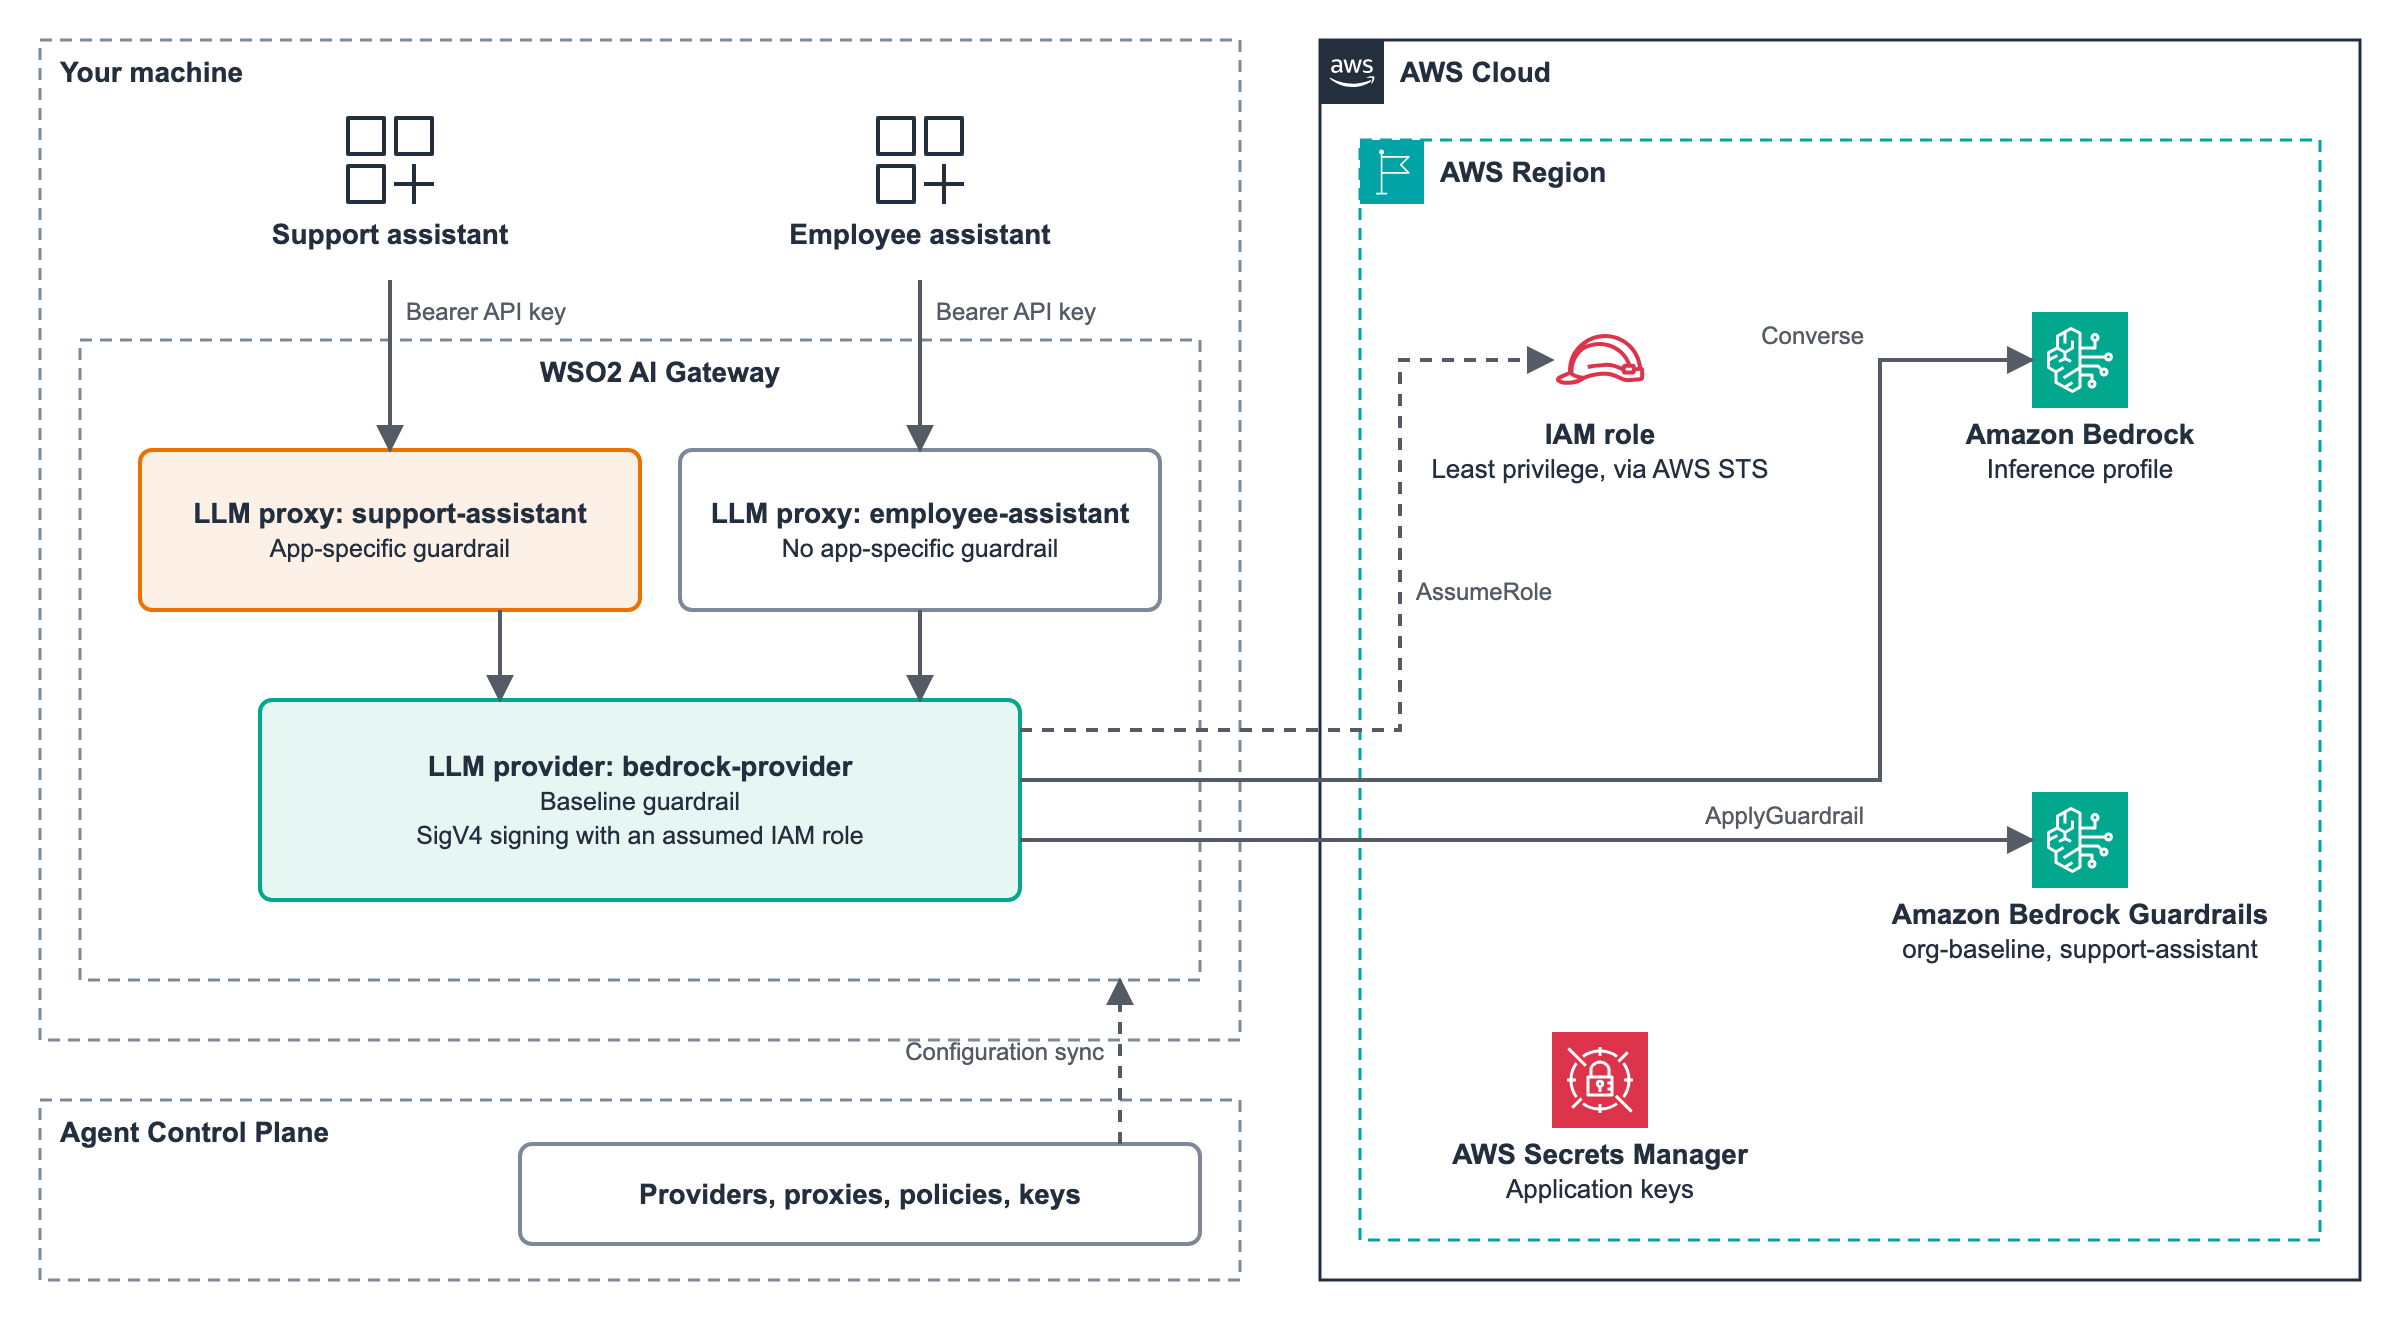
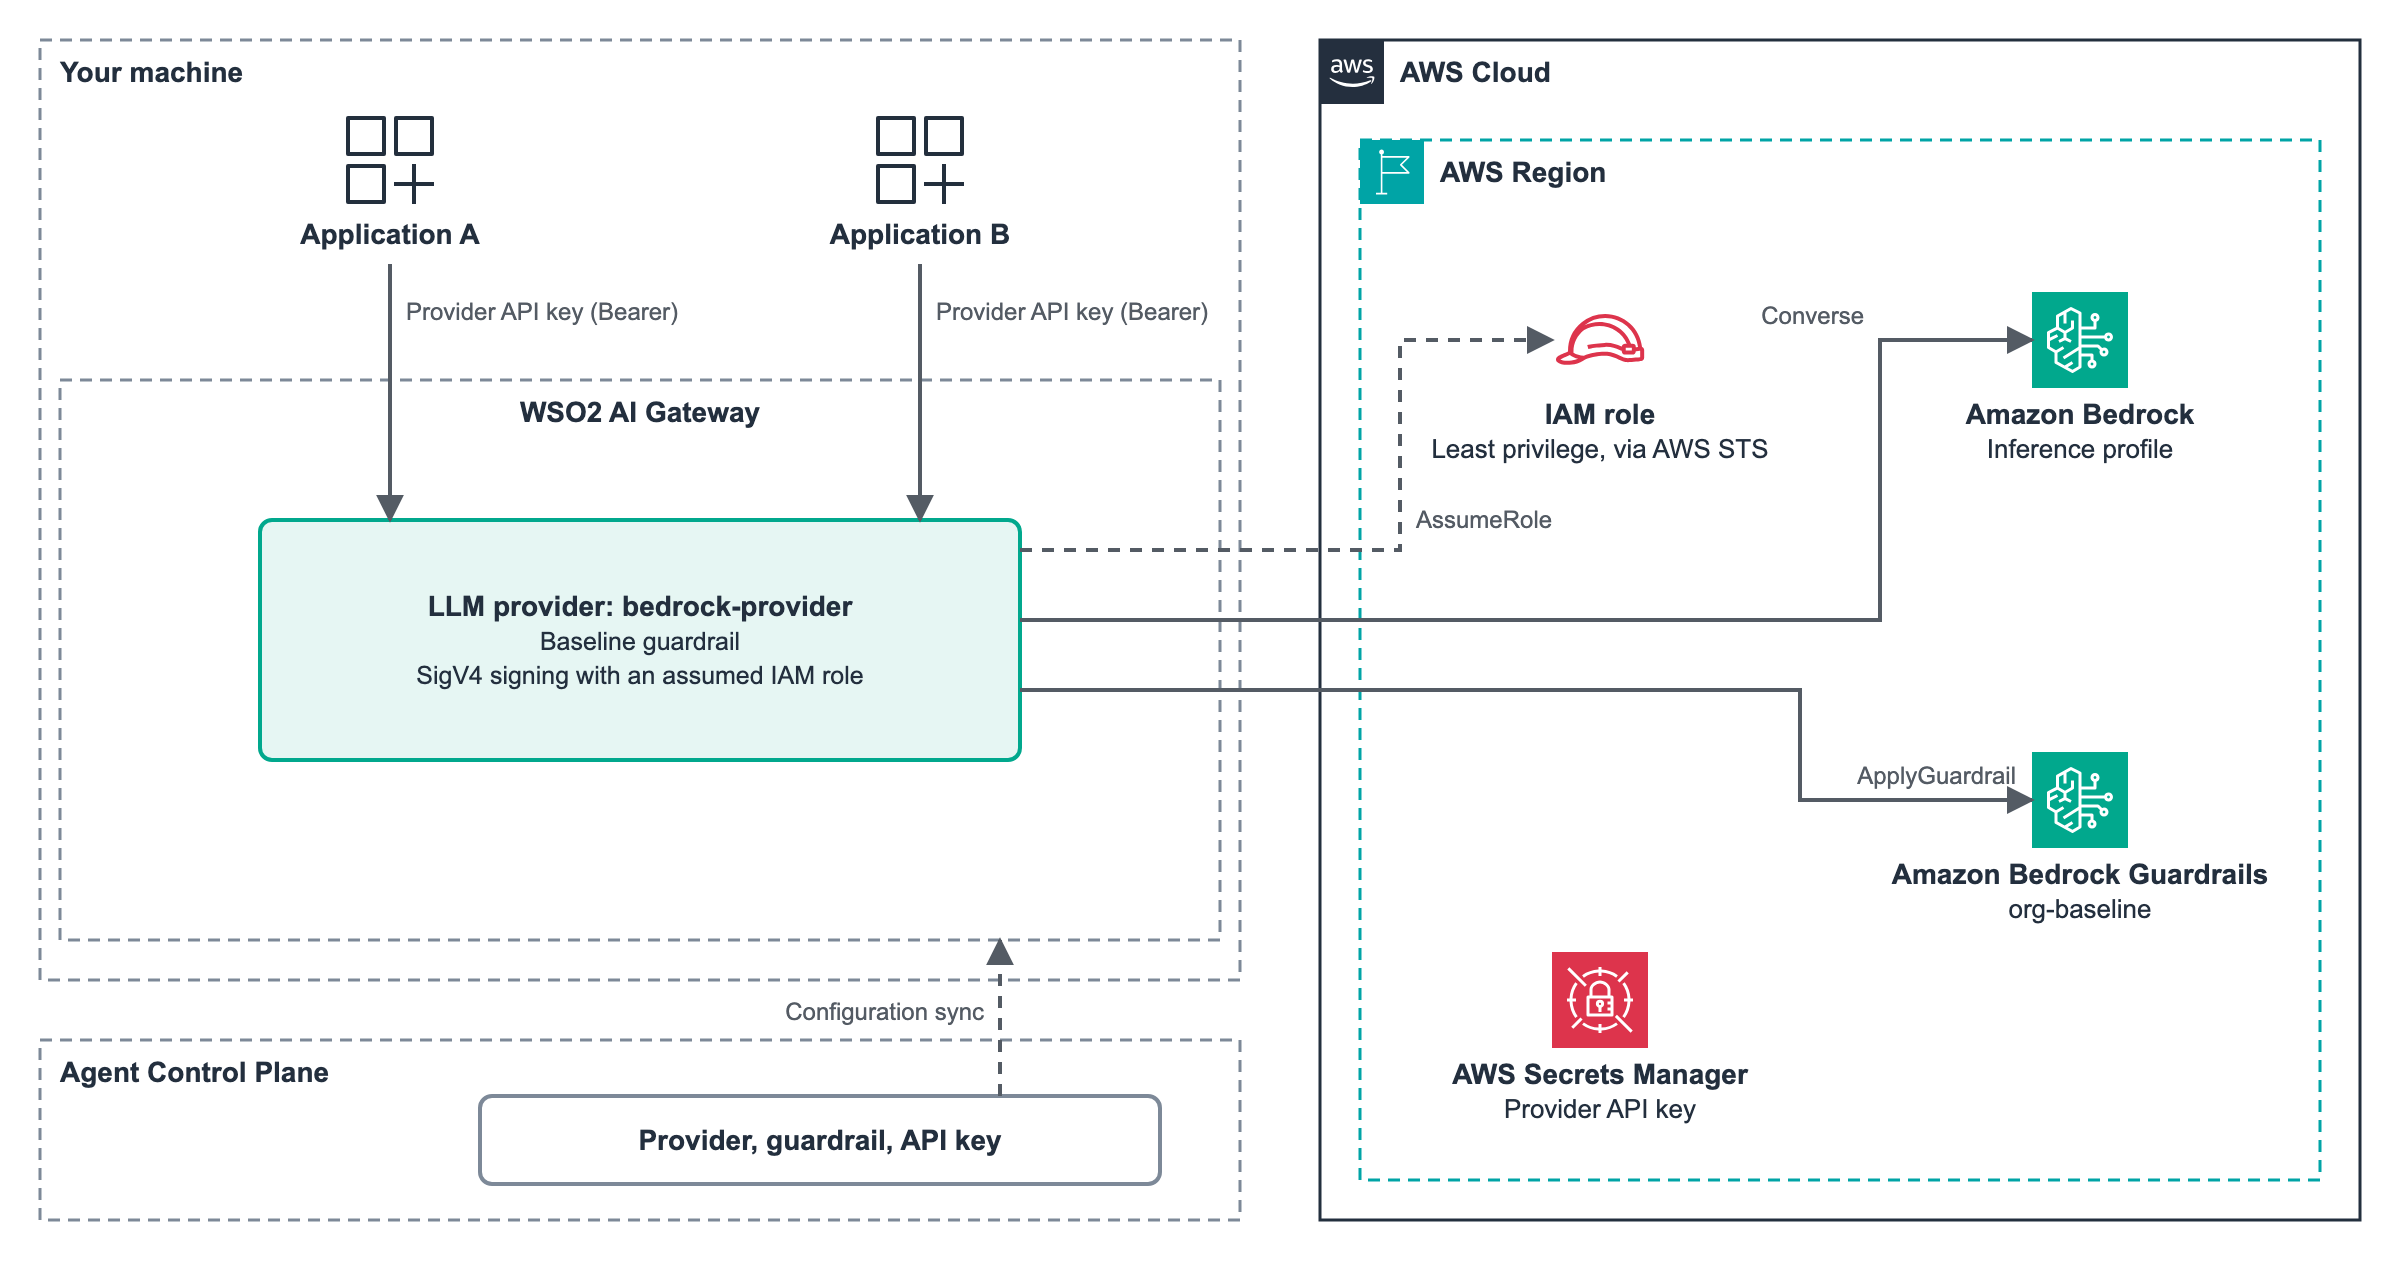
Draw the figures for the shared guardrail: one provider, three trust boundaries, one guardrail on both paths

diff --git a/README.md b/README.md
@@ -6,6 +6,8 @@ Sample code for the AWS Machine Learning Blog post *Apply one Amazon Bedrock gua
 - **WSO2 side, in Agent Control Plane:** you configure one LLM provider with the guardrail policy in Agent Control Plane, which deploys it to a gateway that runs on your machine. Every request through the provider is checked.
 - **No stored AWS keys:** your AWS CLI session's temporary credentials only call `sts:AssumeRole` on the gateway role. Every Amazon Bedrock call runs under that role.
 
+![High-level architecture](images/figure-1-architecture.png)
+
 ## Layout
 
 | Path | Contents |
